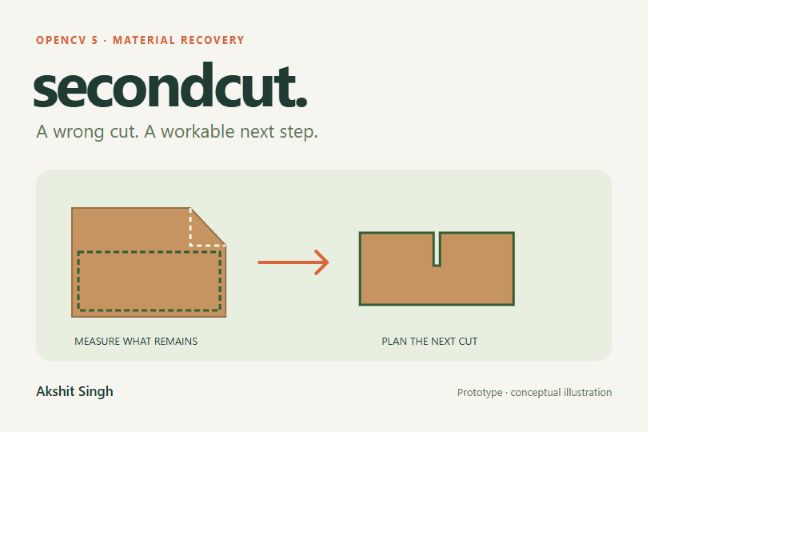
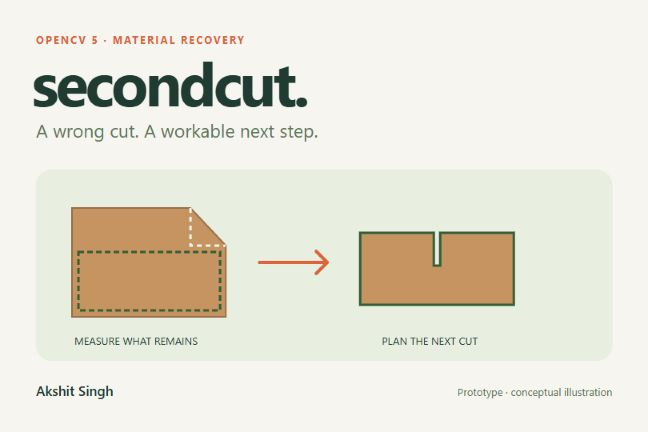
Document verified container build and refresh judge package assets

diff --git a/scripts/package_submission.py b/scripts/package_submission.py
@@ -16,9 +16,9 @@ for folder, extensions in allowed_extensions.items():
                              for part in p.relative_to(root/folder).parts))
 # Never include deployment.json or other account-specific configuration.
 files.extend(root/'infra'/name for name in ('README.md', 'template.yaml'))
-for name in ('README.md','Dockerfile','requirements.txt','requirements-dev.txt','requirements.lock.txt','.dockerignore'):
+for name in ('README.md','Dockerfile','requirements.txt','requirements-dev.txt','requirements.lock.txt','.dockerignore','.github/workflows/test.yml'):
     files.append(root/name)
-for name in ('evaluation.json','calibration-mat.png','workbench.png','repair-review.png','verification.png','recapture.png','architecture.png','secondcut-software-walkthrough.mp4'):
+for name in ('evaluation.json','calibration-mat.png','cover.png','workbench.png','repair-review.png','verification.png','recapture.png','architecture.png','secondcut-software-walkthrough.mp4'):
     p=root/'artifacts'/name
     if p.exists():files.append(p)
 destination=root/'artifacts'/'secondcut-review-package.zip'

diff --git a/infra/README.md b/infra/README.md
@@ -46,4 +46,9 @@ Evidence objects expire after 30 days. The bucket is retained on stack deletion 
 
 ## Limitations
 
-Docker image build, SAM validation, Linux dependency compatibility, S3 persistence, hosted authentication, and cloud runtime performance remain unverified until the AWS deployment is exercised. Writes are last-write-wins; the prototype assumes a single reviewer per project.
+The Lambda Docker image builds and runs the OpenCV inspection smoke check in
+[GitHub CI](https://github.com/Akshit-Singh-00/secondcut/actions/runs/37578809949).
+The same run passes the 18-test suite and nine generated evaluation scenarios
+on Linux. SAM validation, S3 persistence, hosted authentication, and cloud runtime
+performance remain unverified until AWS deployment is exercised. Writes are
+last-write-wins; the prototype assumes a single reviewer per project.

diff --git a/README.md b/README.md
@@ -9,6 +9,7 @@ SecondCut is a camera-guided research prototype that recovers a flat cardboard b
 ## Current evidence and limits
 
 - Working local web application and real OpenCV 5.0.0 image processing.
+- Linux tests and the Lambda container vision smoke check pass in [GitHub CI](https://github.com/Akshit-Singh-00/secondcut/actions/runs/37578809949).
 - Three supported damage types: shortened edge, missing corner, and deep notch.
 - Approval-gated SVG templates, per-inspection tool traces, and geometry verification.
 - All built-in samples are **synthetic**. Passing them does not establish physical measurement accuracy or assembly fit.
